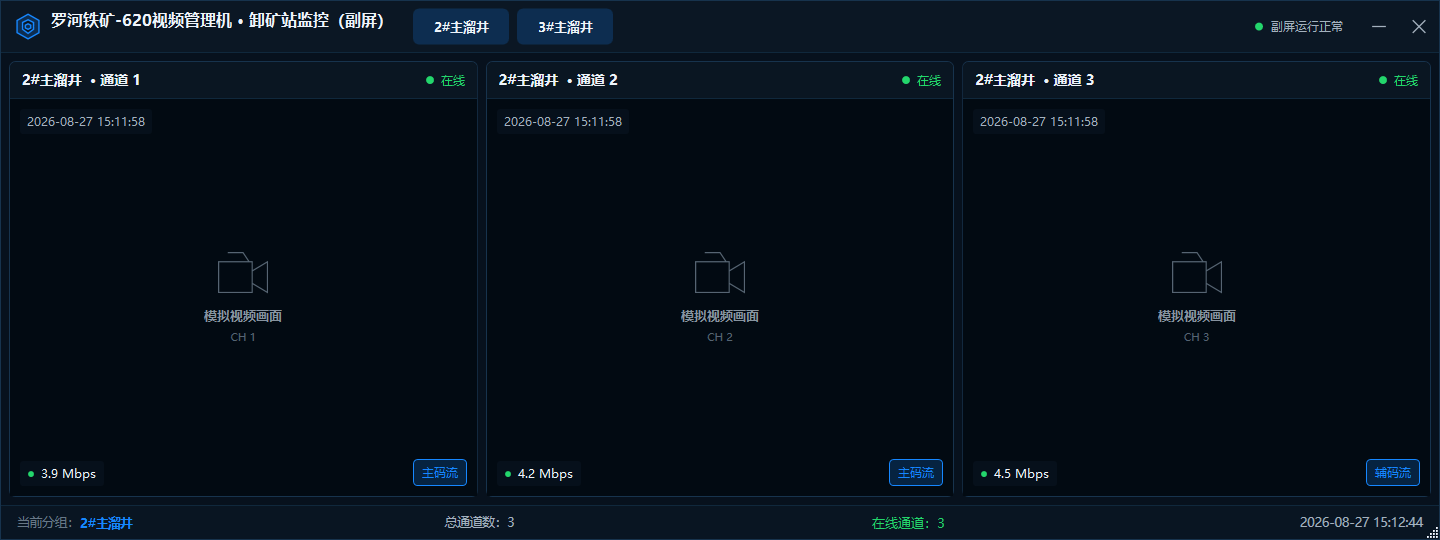
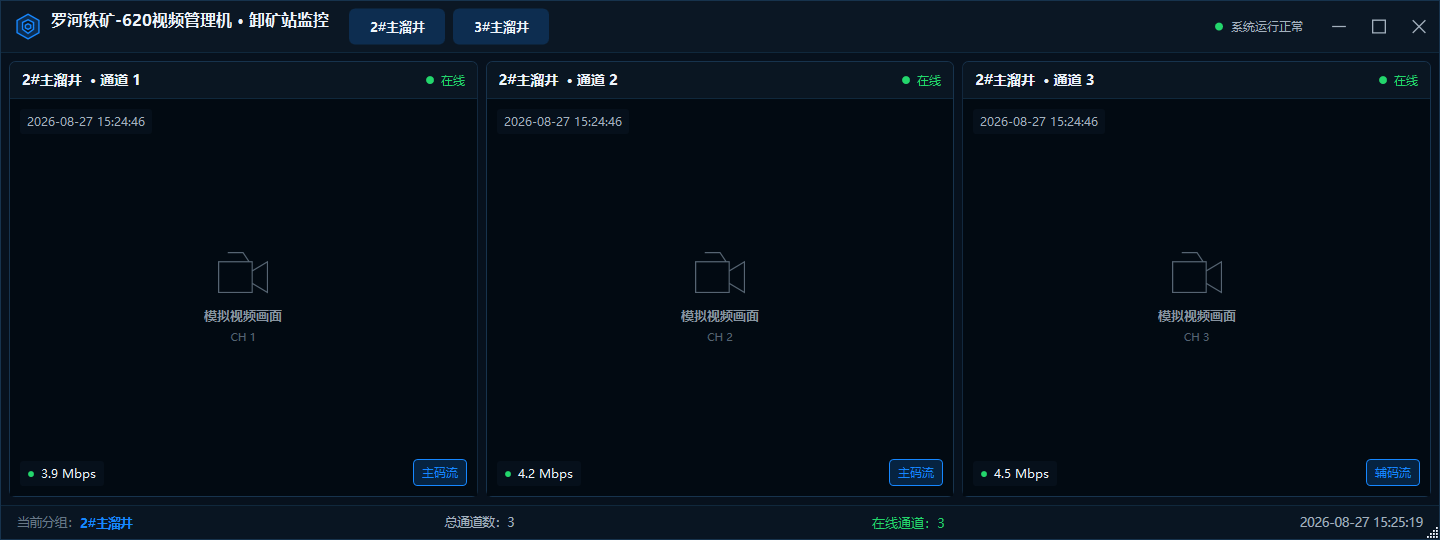
fix: refine alarm and unloading window controls

diff --git a/src/VideoMonitor.Wpf/MainWindow.xaml b/src/VideoMonitor.Wpf/MainWindow.xaml
@@ -99,13 +99,13 @@
                         <Button AutomationProperties.AutomationId="MonitorFullscreenButton" AutomationProperties.Name="全屏"
                                 Command="{Binding ToggleFullscreenCommand}" ToolTip="全屏" Style="{StaticResource HeaderToolButtonStyle}"
                                 shell:WindowChrome.IsHitTestVisibleInChrome="True">
-                            <StackPanel><Path Width="19" Height="19" Data="{StaticResource IconFullscreen}" Stroke="{Binding Foreground, RelativeSource={RelativeSource AncestorType=Button}}" StrokeThickness="1.5" Stretch="Uniform"/><TextBlock Margin="0,2,0,0" FontSize="{StaticResource FontSizeCaption}" Text="全屏"/></StackPanel>
+                            <StackPanel HorizontalAlignment="Center"><Path Width="19" Height="19" HorizontalAlignment="Center" Data="{StaticResource IconFullscreen}" Stroke="{Binding Foreground, RelativeSource={RelativeSource AncestorType=Button}}" StrokeThickness="1.5" Stretch="Uniform"/><TextBlock Margin="0,2,0,0" HorizontalAlignment="Center" FontSize="{StaticResource FontSizeCaption}" Text="全屏"/></StackPanel>
                         </Button>
                         <Button ToolTip="告警" Style="{StaticResource HeaderToolButtonStyle}" shell:WindowChrome.IsHitTestVisibleInChrome="True">
-                            <Grid><StackPanel><Path Width="19" Height="19" Data="{StaticResource IconAlarm}" Stroke="{Binding Foreground, RelativeSource={RelativeSource AncestorType=Button}}" StrokeThickness="1.5" Stretch="Uniform"/><TextBlock Margin="0,2,0,0" FontSize="{StaticResource FontSizeCaption}" Text="告警"/></StackPanel><Border Margin="29,2,0,0" Width="17" Height="17" VerticalAlignment="Top" HorizontalAlignment="Left" Background="{StaticResource DangerRedBrush}" CornerRadius="9"><TextBlock FontSize="10" HorizontalAlignment="Center" VerticalAlignment="Center" Text="3"/></Border></Grid>
+                            <Grid Width="48"><StackPanel HorizontalAlignment="Center"><Path Width="19" Height="19" HorizontalAlignment="Center" Data="{StaticResource IconAlarm}" Stroke="{Binding Foreground, RelativeSource={RelativeSource AncestorType=Button}}" StrokeThickness="1.5" Stretch="Uniform"/><TextBlock Margin="0,2,0,0" HorizontalAlignment="Center" FontSize="{StaticResource FontSizeCaption}" Text="告警"/></StackPanel><Border Margin="0,1,4,0" Width="17" Height="17" VerticalAlignment="Top" HorizontalAlignment="Right" Background="{StaticResource DangerRedBrush}" CornerRadius="9"><TextBlock FontSize="10" HorizontalAlignment="Center" VerticalAlignment="Center" Text="3"/></Border></Grid>
                         </Button>
                         <Button ToolTip="设置" Style="{StaticResource HeaderToolButtonStyle}" shell:WindowChrome.IsHitTestVisibleInChrome="True">
-                            <StackPanel><Path Width="19" Height="19" Data="{StaticResource IconSettings}" Stroke="{Binding Foreground, RelativeSource={RelativeSource AncestorType=Button}}" StrokeThickness="1.5" Stretch="Uniform"/><TextBlock Margin="0,2,0,0" FontSize="{StaticResource FontSizeCaption}" Text="设置"/></StackPanel>
+                            <StackPanel HorizontalAlignment="Center"><Path Width="19" Height="19" HorizontalAlignment="Center" Data="{StaticResource IconSettings}" Stroke="{Binding Foreground, RelativeSource={RelativeSource AncestorType=Button}}" StrokeThickness="1.5" Stretch="Uniform"/><TextBlock Margin="0,2,0,0" HorizontalAlignment="Center" FontSize="{StaticResource FontSizeCaption}" Text="设置"/></StackPanel>
                         </Button>
                         <Border Width="1" Height="26" Margin="4,0" Background="{StaticResource SeparatorBrush}" VerticalAlignment="Center" />
                         <Button Click="MinimizeWindow" Style="{StaticResource WindowButtonStyle}" shell:WindowChrome.IsHitTestVisibleInChrome="True"><Path Width="14" Height="14" Data="{StaticResource IconMinimize}" Stroke="{Binding Foreground, RelativeSource={RelativeSource AncestorType=Button}}" StrokeThickness="1.3" Stretch="Uniform"/></Button>

diff --git a/src/VideoMonitor.Wpf/Views/SecondaryMonitorWindow.xaml b/src/VideoMonitor.Wpf/Views/SecondaryMonitorWindow.xaml
@@ -4,7 +4,7 @@
         xmlns:shell="clr-namespace:System.Windows.Shell;assembly=PresentationFramework"
         xmlns:controls="clr-namespace:VideoMonitor.Wpf.Controls"
         xmlns:converters="clr-namespace:VideoMonitor.Wpf.Converters"
-        Title="罗河铁矿-620视频管理机 - 卸矿站监控（副屏）" Width="1440" Height="540" MinWidth="900" MinHeight="540" MaxHeight="540"
+        Title="罗河铁矿-620视频管理机 - 卸矿站监控" Width="1440" Height="540" MinWidth="900" MinHeight="540" MaxHeight="540"
         WindowStyle="None" ResizeMode="CanResize" Background="{StaticResource WindowBackgroundBrush}"
         Foreground="{StaticResource PrimaryTextBrush}">
     <shell:WindowChrome.WindowChrome>
@@ -25,7 +25,7 @@
                     <StackPanel Orientation="Horizontal" VerticalAlignment="Center">
                         <Path Width="26" Height="26" Data="{StaticResource IconLogo}" Fill="{StaticResource PrimaryBlueMutedBrush}"
                               Stroke="{StaticResource PrimaryBlueBrush}" StrokeThickness="1.4" Stretch="Uniform" />
-                        <TextBlock Margin="10,0,20,0" FontSize="{StaticResource FontSizePageTitle}" FontWeight="SemiBold" Text="罗河铁矿-620视频管理机 · 卸矿站监控（副屏）" />
+                        <TextBlock Margin="10,0,20,0" FontSize="{StaticResource FontSizePageTitle}" FontWeight="SemiBold" Text="罗河铁矿-620视频管理机 · 卸矿站监控" />
                         <Button Margin="0,0,8,0" Tag="{Binding CurrentGroupName, Converter={StaticResource StringEqualsConverter}, ConverterParameter=2#主溜井}"
                                 Command="{Binding SwitchGroupCommand}" CommandParameter="2#主溜井" Content="2#主溜井"
                                 Style="{StaticResource SecondaryButtonStyle}" shell:WindowChrome.IsHitTestVisibleInChrome="True" />
@@ -37,10 +37,14 @@
                         <StackPanel Margin="0,0,16,0" Orientation="Horizontal" VerticalAlignment="Center">
                             <Ellipse Width="8" Height="8" Fill="{StaticResource OnlineGreenBrush}" />
                             <TextBlock Margin="8,0,0,0" Foreground="{StaticResource SecondaryTextBrush}"
-                                       FontSize="{StaticResource FontSizeAuxiliary}" Text="副屏运行正常" />
+                                       FontSize="{StaticResource FontSizeAuxiliary}" Text="系统运行正常" />
                         </StackPanel>
                         <Button Click="MinimizeWindow" Style="{StaticResource WindowButtonStyle}" shell:WindowChrome.IsHitTestVisibleInChrome="True">
                             <Path Width="15" Height="15" Data="{StaticResource IconMinimize}" Stroke="{Binding Foreground, RelativeSource={RelativeSource AncestorType=Button}}" StrokeThickness="1.3" Stretch="Uniform" />
+                        </Button>
+                        <Button AutomationProperties.AutomationId="SecondaryMaximizeButton" Click="MaximizeWindow"
+                                ToolTip="最大化/还原" Style="{StaticResource WindowButtonStyle}" shell:WindowChrome.IsHitTestVisibleInChrome="True">
+                            <Path Width="14" Height="14" Data="{StaticResource IconMaximize}" Stroke="{Binding Foreground, RelativeSource={RelativeSource AncestorType=Button}}" StrokeThickness="1.3" Stretch="Uniform" />
                         </Button>
                         <Button Click="CloseWindow" Style="{StaticResource CloseWindowButtonStyle}" shell:WindowChrome.IsHitTestVisibleInChrome="True">
                             <Path Width="14" Height="14" Data="{StaticResource IconClose}" Stroke="{Binding Foreground, RelativeSource={RelativeSource AncestorType=Button}}" StrokeThickness="1.3" Stretch="Uniform" />

diff --git a/src/VideoMonitor.Wpf/Views/SecondaryMonitorWindow.xaml.cs b/src/VideoMonitor.Wpf/Views/SecondaryMonitorWindow.xaml.cs
@@ -4,6 +4,10 @@ namespace VideoMonitor.Wpf.Views;
 
 public partial class SecondaryMonitorWindow
 {
+    private const double RestoredHeight = 540d;
+    private System.Windows.ResizeMode restoredResizeMode;
+    private System.Windows.Rect restoredBounds;
+
     public SecondaryMonitorWindow(SecondaryMonitorViewModel viewModel)
     {
         InitializeComponent();
@@ -16,6 +20,29 @@ public partial class SecondaryMonitorWindow
     }
 
     private void MinimizeWindow(object sender, System.Windows.RoutedEventArgs e) => WindowState = System.Windows.WindowState.Minimized;
+
+    private void MaximizeWindow(object sender, System.Windows.RoutedEventArgs e)
+    {
+        if (WindowState == System.Windows.WindowState.Maximized)
+        {
+            WindowState = System.Windows.WindowState.Normal;
+            MinHeight = RestoredHeight;
+            MaxHeight = RestoredHeight;
+            ResizeMode = restoredResizeMode;
+            Left = restoredBounds.Left;
+            Top = restoredBounds.Top;
+            Width = restoredBounds.Width;
+            Height = RestoredHeight;
+            return;
+        }
+
+        restoredResizeMode = ResizeMode;
+        restoredBounds = new System.Windows.Rect(Left, Top, Width, Height);
+        MinHeight = 0;
+        MaxHeight = double.PositiveInfinity;
+        ResizeMode = System.Windows.ResizeMode.CanResize;
+        WindowState = System.Windows.WindowState.Maximized;
+    }
 
     private void CloseWindow(object sender, System.Windows.RoutedEventArgs e) => Close();
 }
